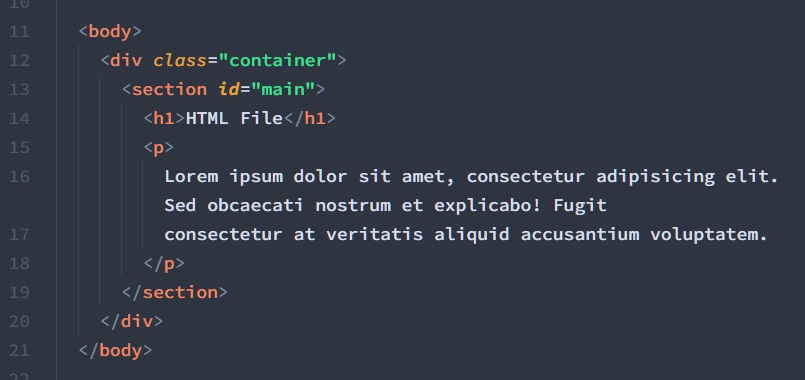
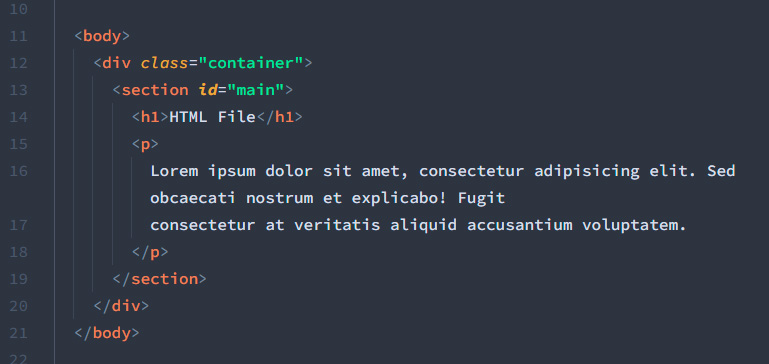
syntax update

diff --git a/demos/html.html b/demos/html.html
@@ -10,15 +10,15 @@
 
 	<body>
 
+		<section id="main">
 		<div class="container">
-			<section id="main">
 				<h1>HTML File</h1>
 				<p>
 					Lorem ipsum dolor sit amet, consectetur adipisicing elit. Sed obcaecati nostrum et explicabo! Fugit
 					consectetur at veritatis aliquid accusantium voluptatem.
 				</p>
-			</section>
-		</div>
+			</div>
+		</section>
 	</body>
 
 </html>

diff --git a/README.md b/README.md
@@ -5,9 +5,9 @@
 
 When working in bright light or using multiple monitors with different foreground brightness levels, I personally find that having too dark of a theme can be straining to the eyes. Arctis aims to solve that problem by maintaining strong legibility and contrast in all lighting conditions without relying on switching between dark and light themes.
 
-To accomplish this, it borrows the brilliant syntax highlighting from Noctis and combines it with the very relaxing and easy-to-stare-at UI from Nord. The result is what I think is truly a perfect combination.
+To accomplish this, it borrows the brilliant syntax highlighting (with some minor color tweaks) from Noctis and combines it with the very relaxing and easy-to-stare-at UI from Nord. The result is what I think is truly a perfect combination.
 
-Syntax colors were slightly adjusted to maintain WCAG 4.5:1 minimum contrast.  
+Keeping accessibility in mind, all syntax colors maintain at least WCAG 4.5:1 minimum contrast.  
 
 ### **Main UI**  
 ![main](main.jpg)  
@@ -18,10 +18,12 @@ Syntax colors were slightly adjusted to maintain WCAG 4.5:1 minimum contrast.
 ### **Python**  
 ![html](python.jpg)
 
-## Recommended Font Settings:
+## Font settings as shown in screenshots:
 ```
 "editor.fontFamily": "Source Code Variable",
+"editor.fontSize": "16",
 "editor.fontWeight": "500",
+"editor.lineHeight": "1.7"
 ```
 
 ## Credits:
